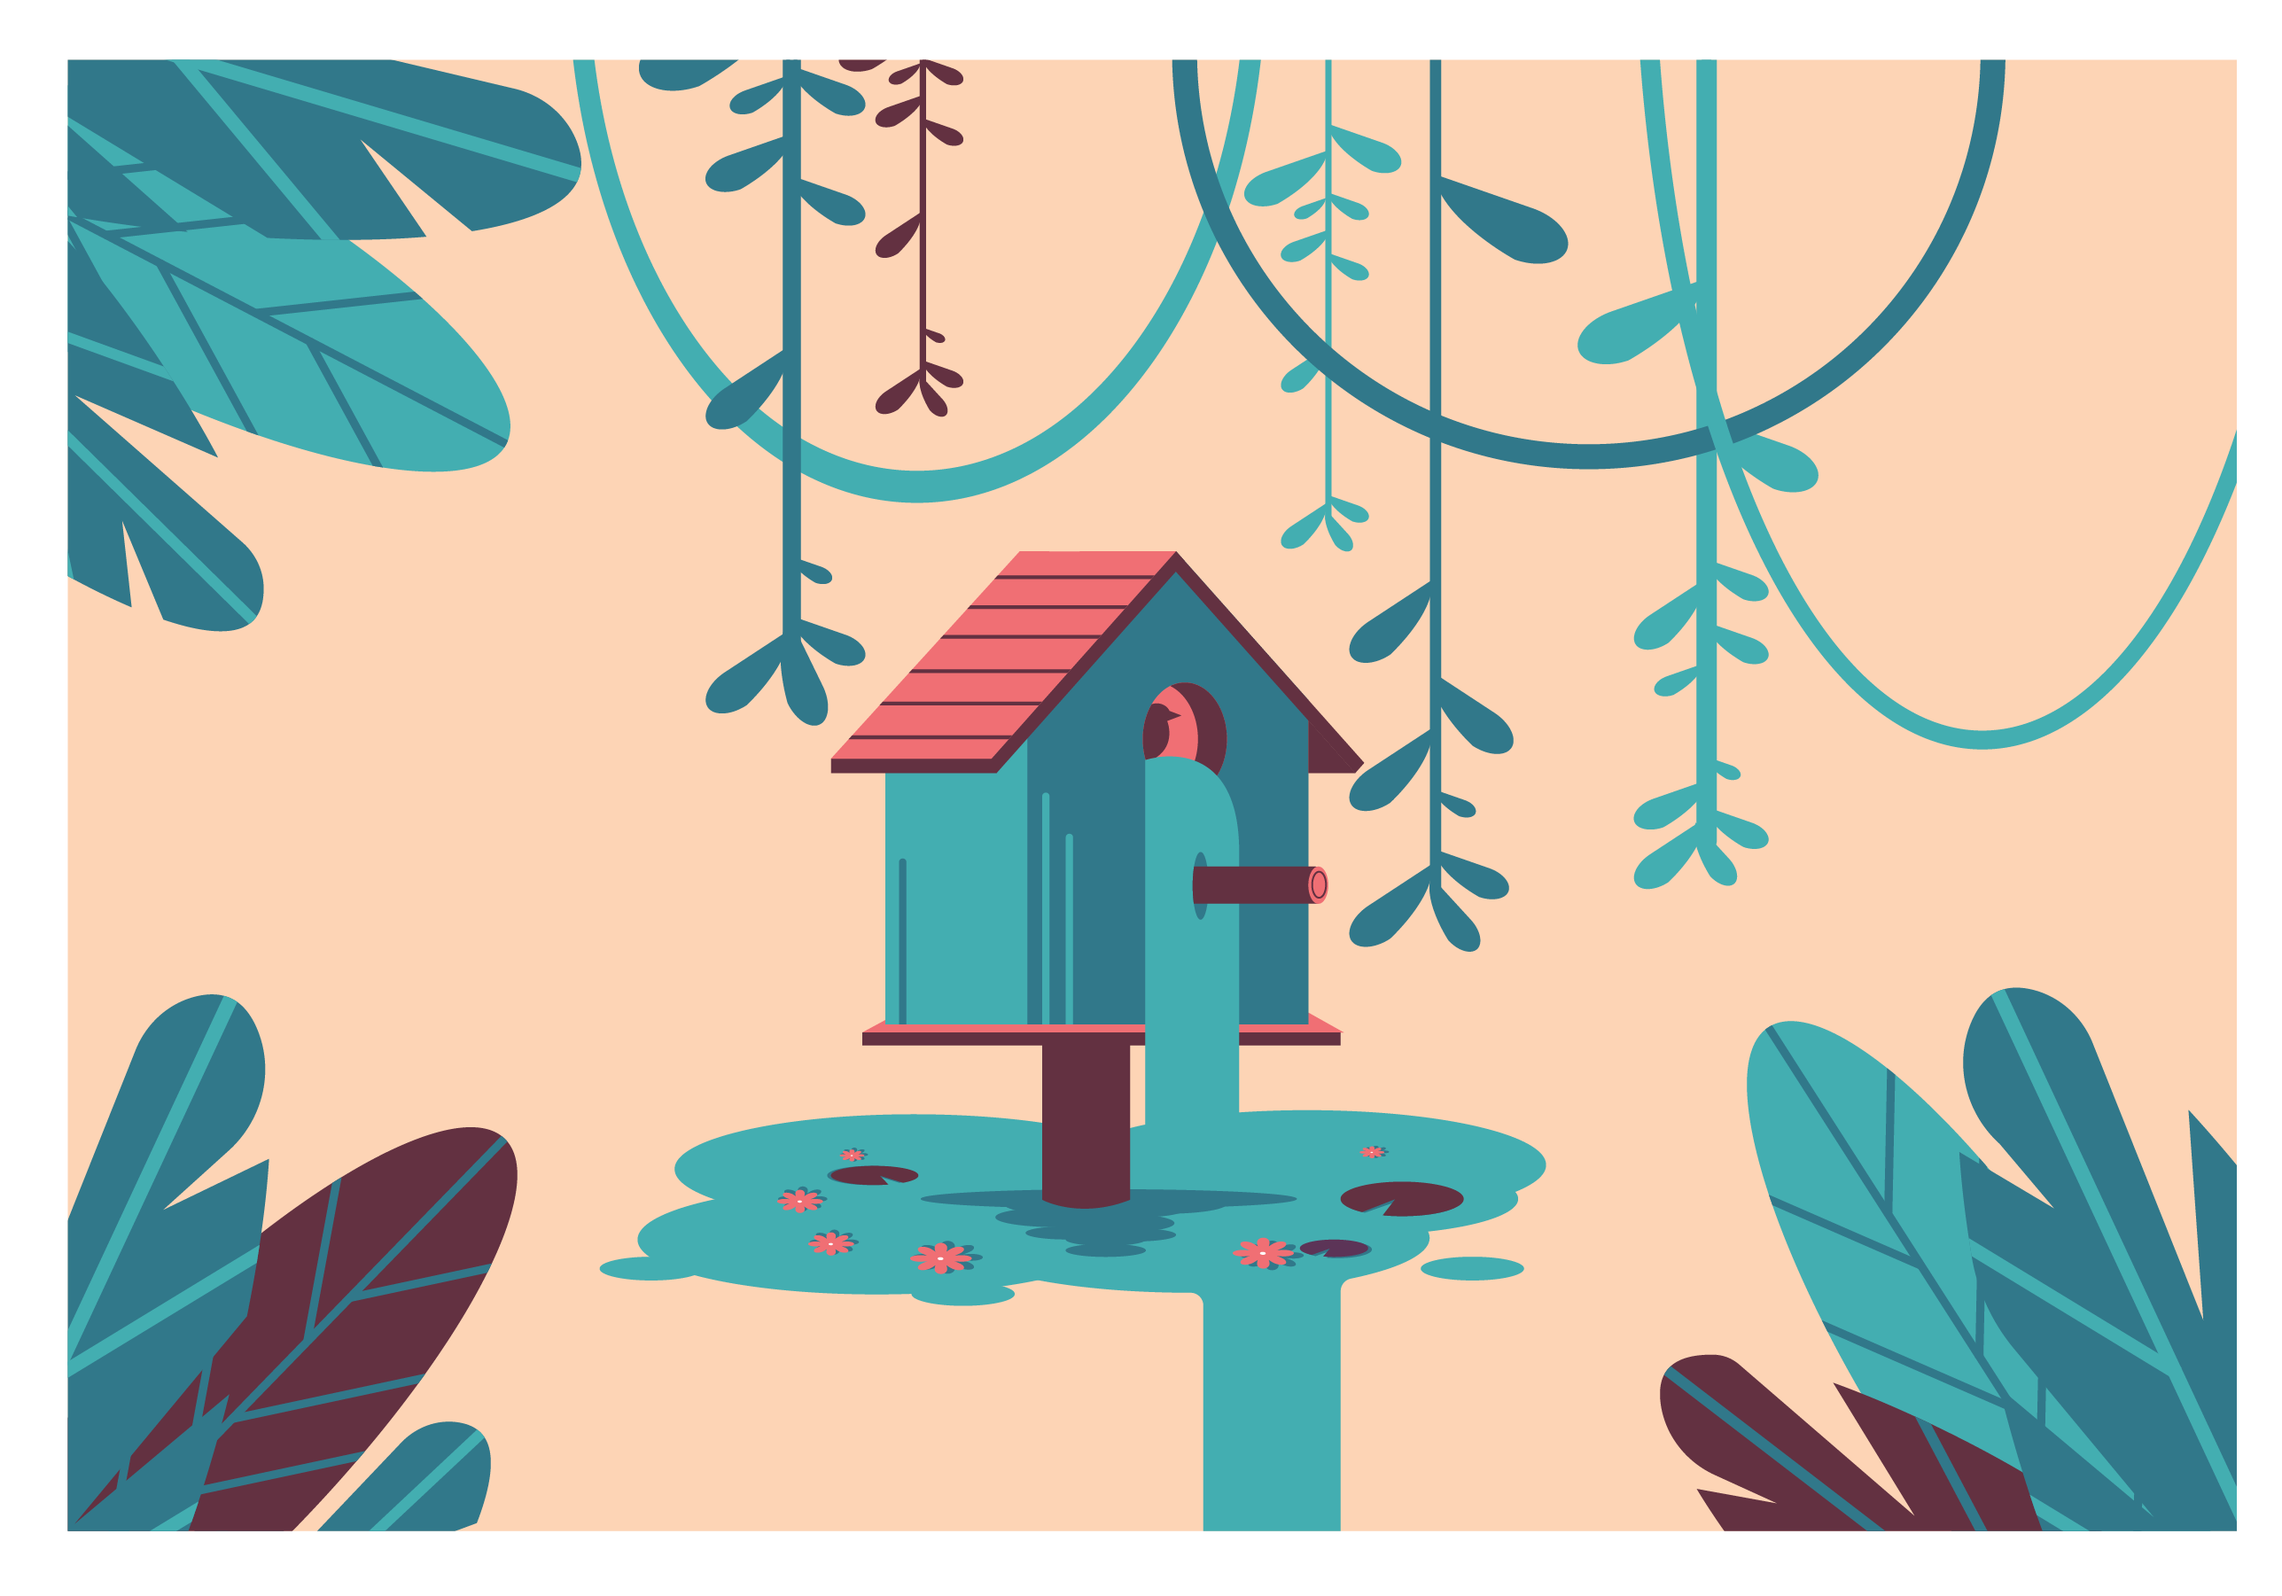
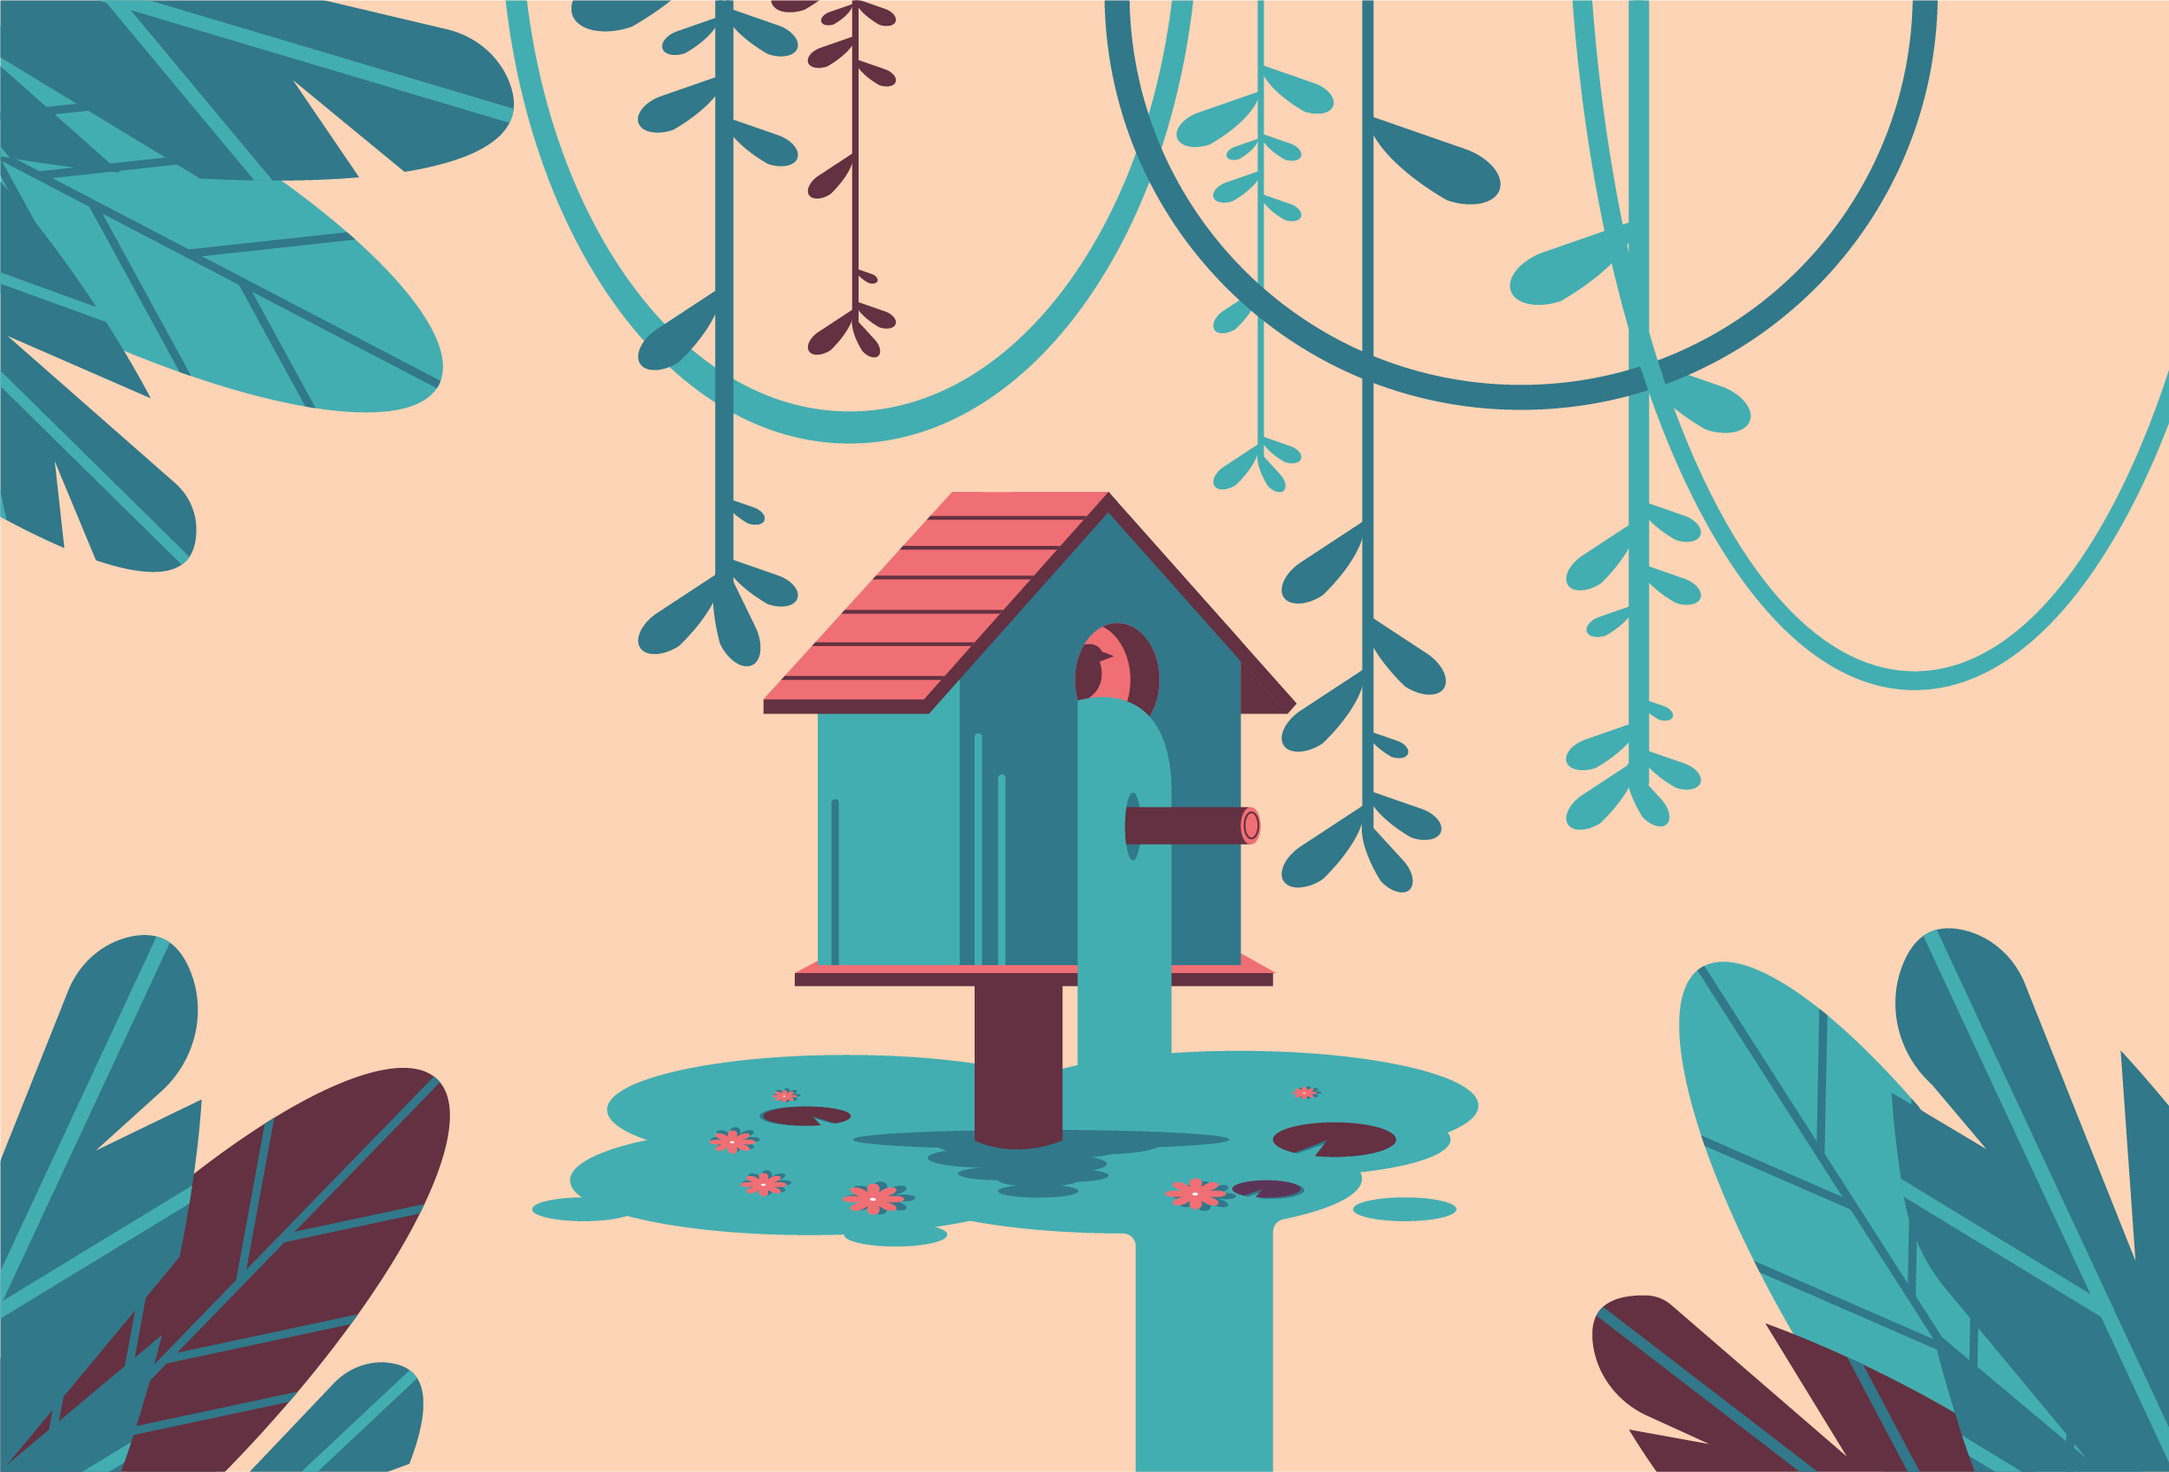
Switched aspect ratio to 4:3 of images

diff --git a/src/pages/IllustrationGallery.tsx b/src/pages/IllustrationGallery.tsx
@@ -2,8 +2,6 @@ import Gallery, { Content } from "../components/Gallery";
 
 import angela from "../content/illustration/angela.png";
 import birdHouse from "../content/illustration/bird-house.png";
-import characterExplorationTwo from "../content/illustration/character-exploration-2.jpg";
-import characterExploration from "../content/illustration/character-exploration.jpg";
 import cheers from "../content/illustration/cheers.jpg";
 import chemexFlower from "../content/illustration/chemex-flower.jpg";
 import cocktail from "../content/illustration/cocktail.png";
@@ -11,7 +9,6 @@ import coffeeSwim from "../content/illustration/coffee-swim.jpg";
 import drinks from "../content/illustration/drinks.png";
 import fourCubePeople from "../content/illustration/four-cube-people.png";
 import goofyGuy from "../content/illustration/goofy-guy.jpg";
-import guyOnLaptop from "../content/illustration/guy-on-laptop.jpg";
 import hannah from "../content/illustration/hannah.jpg";
 import laptopCoffeeBook from "../content/illustration/laptop-coffee-book.jpg";
 import larryCircle from "../content/illustration/larry-circle.jpg";
@@ -28,9 +25,9 @@ import selfPortrait from "../content/illustration/self-portrait.png";
 const content: Content[] = [
   { src: coffeeSwim, id: "coffee-swim", description: "Coffee Swim" },
   {
-    src: redHeadStudent,
-    id: "red-head-student",
-    description: "Red Head Student",
+    src: birdHouse,
+    id: "bird-house",
+    description: "Bird House",
   },
   {
     src: chemexFlower,
@@ -44,24 +41,14 @@ const content: Content[] = [
   },
   { src: weirdGuy, id: "weird-guy", description: "Weird Guy" },
   {
-    src: guyOnLaptop,
-    id: "guy-on-laptop",
-    description: "Guy on Laptop",
+    src: redHeadStudent,
+    id: "red-head-student",
+    description: "Red Head Student",
   },
   {
     src: laptopCoffeeBook,
     id: "laptop-coffee-book",
     description: "Laptop Coffee Book",
-  },
-  {
-    src: characterExplorationTwo,
-    id: "character-exploration-two",
-    description: "Character Exploration Two",
-  },
-  {
-    src: characterExploration,
-    id: "character-exploration",
-    description: "Character Exploration",
   },
   {
     src: fourCubePeople,
@@ -107,11 +94,6 @@ const content: Content[] = [
     src: angela,
     id: "angela",
     description: "Angela",
-  },
-  {
-    src: birdHouse,
-    id: "bird-house",
-    description: "Bird House",
   },
   { src: stuck, id: "stuck", description: "Stuck" },
 ];

diff --git a/src/components/Gallery.module.css b/src/components/Gallery.module.css
@@ -1,21 +1,21 @@
 .container {
   display: grid;
-  gap: 1rem;
+  gap: 2rem;
   grid-template-columns: repeat(var(--column-count), min-content);
-  --column-count: 5;
+  --column-count: 4;
   margin: auto;
   width: min-content;
 }
 
 @media (max-width: 1600px) {
   .container {
-    --column-count: 4;
+    --column-count: 3;
   }
 }
 
 @media (max-width: 1300px) {
   .container {
-    --column-count: 3;
+    --column-count: 2;
   }
 }
 
@@ -36,7 +36,9 @@
 }
 
 .galleryContainer .image {
-  width: 300px;
+  width: 400px;
+  height: 300px;
+  object-fit: cover;
 }
 
 .modal .body {
